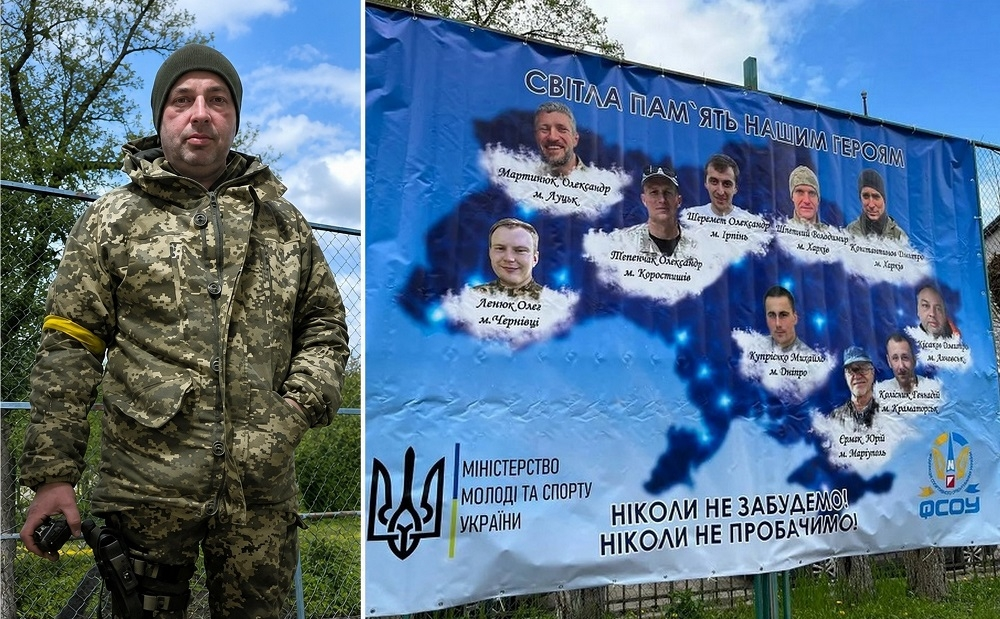
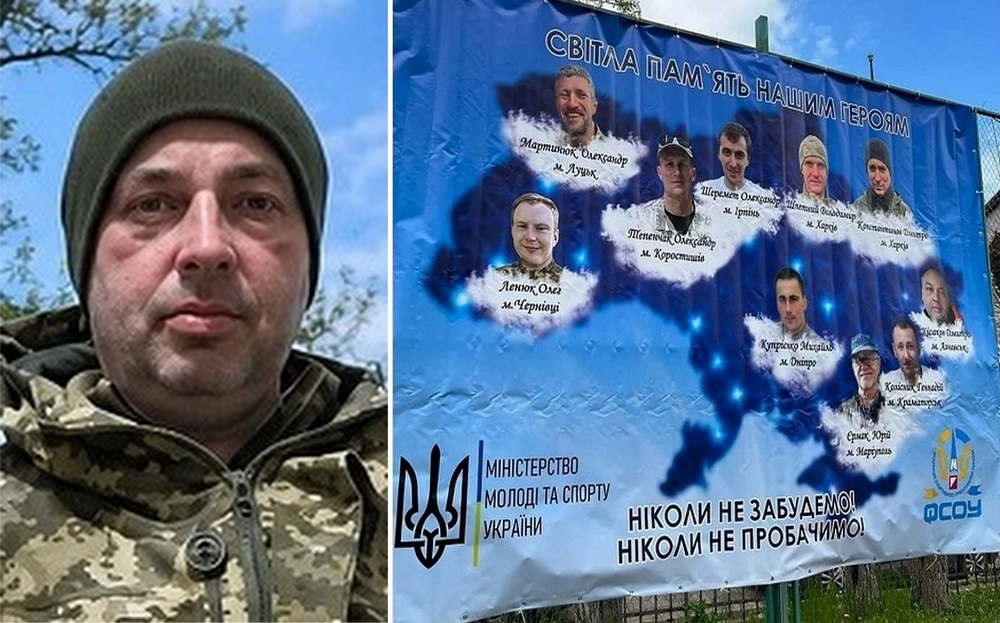
feat(memorial): add profile and photo for newly identified soldier

diff --git a/src/pages/Heroes/heroes.js b/src/pages/Heroes/heroes.js
@@ -223,6 +223,19 @@ export const heroes = [
     ]
   },
   {
+    id: 30,
+    image: "30 Олександр Ляхов.jpg",
+    name: "Олександр Ляхов",
+    dates: "7 лютого 2002 – 4 грудня 2024",
+    text: [
+      "Маріупольський хлопчина, який  добровольцем пішов боронити своє місто, свою країну. Спортивним орієнтуванням розпочав займався у Маріуполі, виступав за клуб «Меотида». Мав спортивний розряд. Його першим тренером був Ігор Євгенович Кузьмін.",
+      "У 2019 році вступив до Національного технічного університету України «Київський політехнічний інститут імені Ігоря Сікорського»,  де навчався в Навчально-науковому інституті атомної та теплової енергетики на кафедрі цифрових технологій в енергетиці.",
+      "Брав активну участь у діяльності відділу якості освіти Студентської ради КПІ, був активним учасником різних конкурсів та заходів. Згодом очолював секцію у Науковому товаристві студентів і аспірантів та у студентському просторі \"Bilka\".",
+      "З початком повномасштабного вторгнення Олександр активно займався волонтерською діяльністю. Наприкінці літа 2024 року підписав контракт із Збройними силами України та встав на захист нашої країни у складі 110-ї окремої механізованої бригади імені генерал-хорунжого Марка Безручка.",
+      "4 грудня 2024 року загинув під час виконання бойового завдання на Курському напрямку."
+    ]
+  },
+  {
     id: 19,
     image: "19 Орест Малованюк.jpg",
     name: "Орест Орестович Малованюк",
